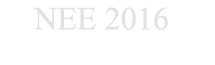
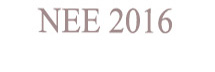
seat label modified

Changed region(s): [[0.1674, 0.0923, 0.8093, 0.4615]]

diff --git a/resources/views/admin/seatlabel/generate.blade.php b/resources/views/admin/seatlabel/generate.blade.php
@@ -2,6 +2,7 @@
 <html>
 <head>
 <meta charset="utf-8">
+<link href='https://fonts.googleapis.com/css?family=Roboto+Mono' rel='stylesheet' type='text/css'>
 <title>Sheet Label NEE {{date('Y')}}</title>
 </head>
 <body>
@@ -10,7 +11,7 @@
     <td width="913" colspan="2" valign="top">
 	@foreach($results as $res)
       <strong>
-      <textarea name="seat_label" cols="11" rows="2" style="font-family: Arial; font-size: 18pt; font-weight: bold; text-align: center; border-style: solid; border-color:#000000 border-width: 2; padding-left:0px; padding-right:40px; padding-top:15px; margin:5px; padding-bottom:0px; background:url({{ asset('images/seat_label.jpg') }})">
+      <textarea name="seat_label" cols="11" rows="2" style="font-family: Roboto Mono; font-size: 18pt; font-weight: bold; text-align: center; border-style: solid; border-color:#000000 border-width: 2; padding-left:0px; padding-right:40px; padding-top:15px; margin:5px; padding-bottom:0px; background:url({{ asset('images/seat_label.jpg') }})">
       {{ $res->rollno }}</textarea>
       </strong>
   @endforeach
